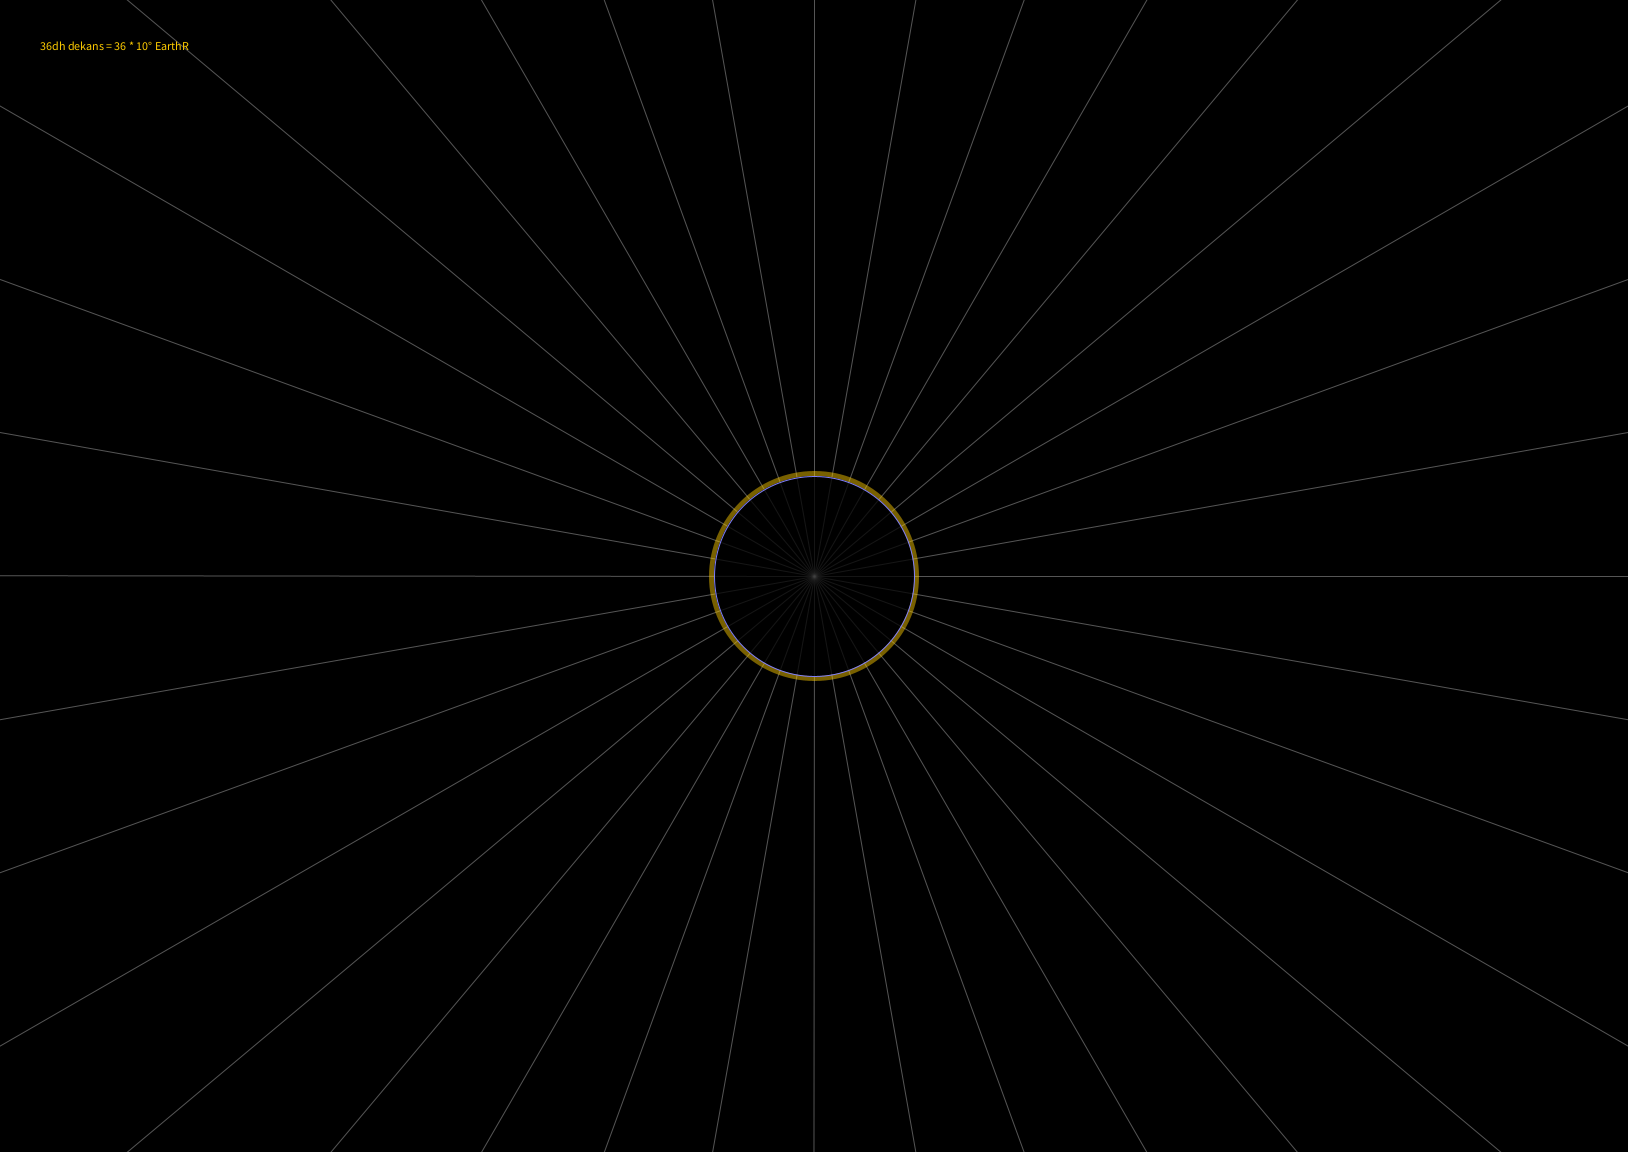
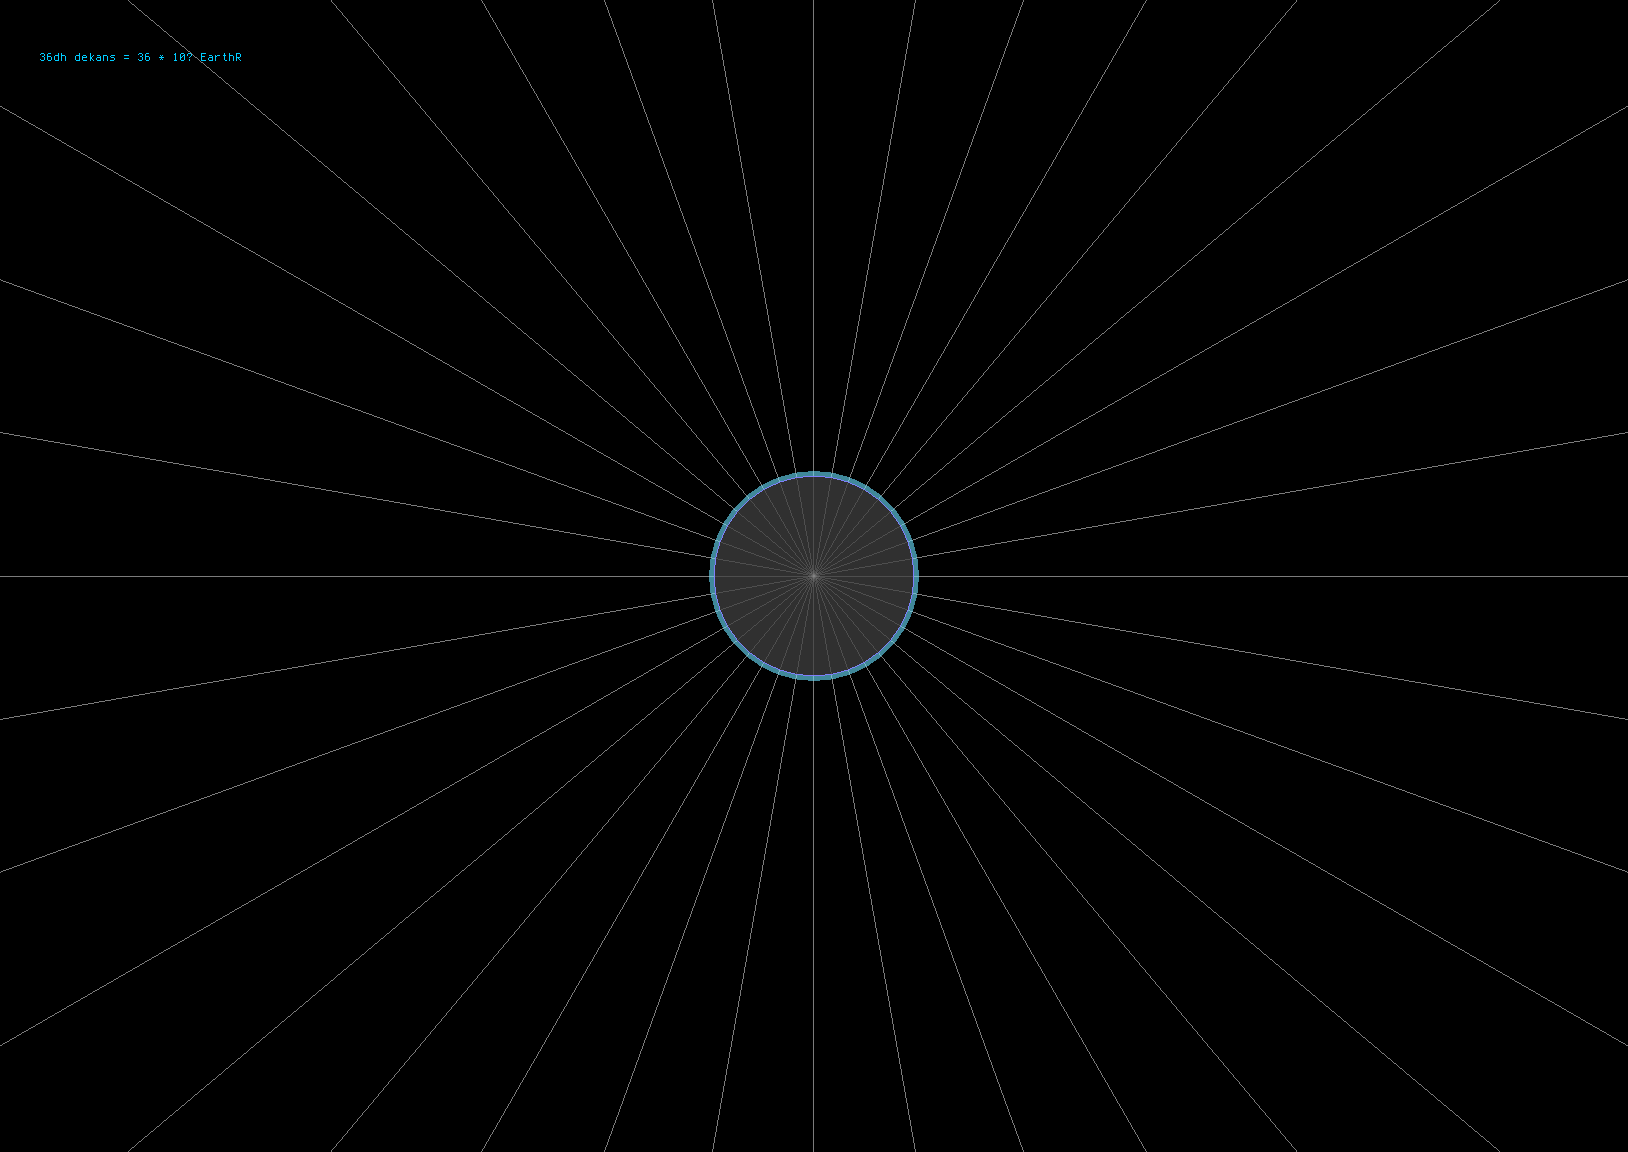
feat(sketch_261120a_PAL_formats): centered one-line Eulerian SVG for Drkota plotter and updated C transpilation

Changed region(s): [[0.43, 0.4062, 0.5835, 0.5938], [0.0307, 0.0312, 0.1229, 0.0625]]

diff --git a/11-listopad/sketch_261120a_PAL_formats/generate_one_line_svg.py b/11-listopad/sketch_261120a_PAL_formats/generate_one_line_svg.py
@@ -1,0 +1,152 @@
+#!/usr/bin/env python3
+"""
+Generate a continuous one-line SVG (Eulerian path, zero pen lifts) for Drkota V-plotter
+representing sketch_261120a_PAL_formats (36 decans = 36 * 10° Earth rays).
+
+Ensures:
+- Exact concentricity around (cx, cy)
+- Perfectly symmetric bounding box (center is identically (cx, cy))
+- All transitions occur strictly along Ray 0 (primary decan axis)
+- Exactly 1 initial 'M' command, followed exclusively by 'L' commands (zero pen lifts)
+"""
+
+import math
+import sys
+import os
+
+def generate_pal_oneline_svg(
+    filename="dh36_paprsky_oneline.svg",
+    width_mm=200.0,
+    height_mm=200.0,
+    num_dekans=36,
+    r_hub=3.5,          # Central micro-hub radius in mm
+    r_in=20.0,          # Inner circle 1 radius in mm
+    r_in2=22.0,         # Inner circle 2 radius in mm
+    r_out=87.0,         # Outer ray radius in mm
+    r_out2=90.0,        # Outer guard ring radius in mm
+    arc_subdiv=16       # Subdivisions per decan arc (16 * 36 = 576 pts per full circle)
+):
+    points = []
+    
+    # Center coordinates
+    cx = width_mm / 2.0
+    cy = height_mm / 2.0
+    
+    def pt(r, angle_rad):
+        return (cx + r * math.cos(angle_rad), cy + r * math.sin(angle_rad))
+
+    def arc(r, start_angle, end_angle, steps=None):
+        if steps is None:
+            steps = max(2, int(abs(end_angle - start_angle) / (2.0 * math.pi / num_dekans) * arc_subdiv))
+        pts = []
+        for i in range(steps + 1):
+            t = float(i) / steps
+            a = start_angle + t * (end_angle - start_angle)
+            pts.append(pt(r, a))
+        return pts
+
+    delta_theta = 2.0 * math.pi / num_dekans
+
+    # --- Phase 1: Start at Outer Guard Ring on Ray 0 ---
+    points.append(pt(r_out2, 0.0))
+
+    # --- Phase 2: Outer Guard Ring (r_out2) full 360° circle ---
+    full_outer2 = arc(r_out2, 0.0, 2.0 * math.pi, num_dekans * arc_subdiv)
+    points.extend(full_outer2[1:])
+
+    # --- Phase 3: Transition along Ray 0 to Outer Ring (r_out) ---
+    points.append(pt(r_out, 0.0))
+
+    # --- Phase 4: 36 Decan Ray Meander ---
+    # Alternating inward and outward rays across all 36 decans:
+    # Ray 2k: r_out -> r_in along theta_a
+    # Inner arc: theta_a -> theta_b at r_in
+    # Ray 2k+1: r_in -> r_out along theta_b
+    # Outer arc: theta_b -> theta_c at r_out
+    for k in range(num_dekans // 2):
+        th_a = (2 * k) * delta_theta
+        th_b = (2 * k + 1) * delta_theta
+        th_c = (2 * k + 2) * delta_theta
+        
+        # Ray inward along th_a
+        points.append(pt(r_in, th_a))
+        
+        # Inner arc from th_a to th_b
+        inner_arc = arc(r_in, th_a, th_b, arc_subdiv)
+        points.extend(inner_arc[1:])
+        
+        # Ray outward along th_b
+        points.append(pt(r_out, th_b))
+        
+        # Outer arc from th_b to th_c
+        outer_arc = arc(r_out, th_b, th_c, arc_subdiv)
+        points.extend(outer_arc[1:])
+
+    # Now pen is back at (r_out, 0)
+    # --- Phase 5: Inward along Ray 0 to Inner Ring 1 (r_in) ---
+    points.append(pt(r_in, 0.0))
+
+    # --- Phase 6: Inner Ring 1 (r_in) full 360° circle ---
+    # Completes the remaining inner arcs so the inner ring is continuous and complete
+    full_inner1 = arc(r_in, 0.0, 2.0 * math.pi, num_dekans * arc_subdiv)
+    points.extend(full_inner1[1:])
+
+    # --- Phase 7: Transition along Ray 0 to Inner Ring 2 (r_in2) ---
+    points.append(pt(r_in2, 0.0))
+
+    # --- Phase 8: Inner Ring 2 (r_in2) full 360° circle ---
+    full_inner2 = arc(r_in2, 0.0, 2.0 * math.pi, num_dekans * arc_subdiv)
+    points.extend(full_inner2[1:])
+
+    # --- Phase 9: Inward along Ray 0 to Central Hub (r_hub) ---
+    points.append(pt(r_hub, 0.0))
+
+    # --- Phase 10: Central Hub full 360° circle ---
+    hub_circle = arc(r_hub, 0.0, 2.0 * math.pi, num_dekans)
+    points.extend(hub_circle[1:])
+
+    # --- Phase 11: Final anchor to exact mathematical center ---
+    points.append((cx, cy))
+
+    # Format into single SVG path
+    d_parts = []
+    d_parts.append(f"M {points[0][0]:.3f} {points[0][1]:.3f}")
+    for p in points[1:]:
+        d_parts.append(f"L {p[0]:.3f} {p[1]:.3f}")
+    
+    d_str = " ".join(d_parts)
+
+    svg_content = f'''<?xml version="1.0" encoding="UTF-8" standalone="no"?>
+<svg xmlns="http://www.w3.org/2000/svg"
+     width="{width_mm}mm" height="{height_mm}mm"
+     viewBox="0 0 {width_mm} {height_mm}" version="1.1">
+  <title>36 Decans PAL Formats - Single Line Astrolabe</title>
+  <desc>One-line continuous Eulerian trajectory for Drkota V-plotter (zero pen lifts)</desc>
+  <path d="{d_str}"
+        fill="none" stroke="#000000" stroke-width="0.35" stroke-linecap="round" stroke-linejoin="round"/>
+</svg>
+'''
+    with open(filename, "w", encoding="utf-8") as f:
+        f.write(svg_content)
+
+    print(f"Generated: {filename}")
+    print(f"Total points in single continuous line: {len(points)}")
+    print(f"Pen lifts: 0 (exactly 1 'M' command at the start)")
+    
+    xs = [p[0] for p in points]
+    ys = [p[1] for p in points]
+    print(f"Bounding Box: X=[{min(xs):.3f}, {max(xs):.3f}], Y=[{min(ys):.3f}, {max(ys):.3f}]")
+    print(f"Center: ({(min(xs)+max(xs))/2.0:.3f}, {(min(ys)+max(ys))/2.0:.3f})")
+
+    # Calculate total plotting distance
+    total_dist = 0.0
+    for i in range(1, len(points)):
+        dx = points[i][0] - points[i-1][0]
+        dy = points[i][1] - points[i-1][1]
+        total_dist += math.hypot(dx, dy)
+    print(f"Total continuous pen-down drawing distance: {total_dist:.1f} mm (~{total_dist/1000.0:.2f} m)")
+    return filename
+
+if __name__ == "__main__":
+    out_file = sys.argv[1] if len(sys.argv) > 1 else "/home/kof/src/2026/11-listopad/sketch_261120a_PAL_formats/dh36_paprsky_oneline.svg"
+    generate_pal_oneline_svg(out_file)

diff --git a/11-listopad/sketch_261120a_PAL_formats/sketch_261120a_PAL_formats.c b/11-listopad/sketch_261120a_PAL_formats/sketch_261120a_PAL_formats.c
@@ -73,7 +73,7 @@ pushStyle();
 #line 31 "sketch.pde"
 noFill();
 #line 33 "sketch.pde"
-stroke( 0xFF00CCFF, 120);
+stroke( 0xFFCC00, 120);
 #line 34 "sketch.pde"
 strokeWeight( 5);
 #line 35 "sketch.pde"
@@ -87,7 +87,7 @@ stroke( 127, 127, 250);
 #line 42 "sketch.pde"
 ellipse( width / 2, height / 2, 200, 200);
 #line 44 "sketch.pde"
-fill( 0xFF00CCFF);
+fill( 0xffcc00);
 #line 46 "sketch.pde"
 text( "36dh dekans = 36 * 10° EarthR", 40, 50);
 #line 48 "sketch.pde"
